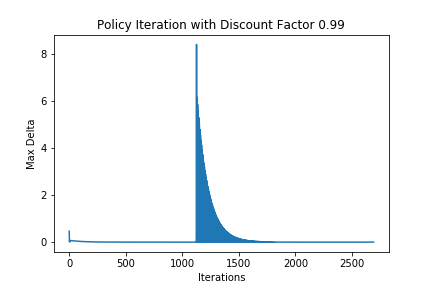
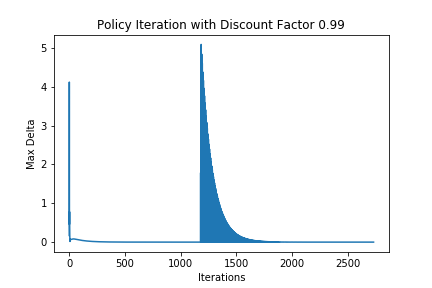
fixed policy_evaluation, graph bug with policy_iteration still

diff --git a/Python Files/policy_iteration.py b/Python Files/policy_iteration.py
@@ -1,50 +1,76 @@
 # adapt the value_iteration.py code to be policy_iteration
 
 # policy iteration
+from Gridworld import Gridworld
+from policy_evaluation import policy_evaluation
+import numpy as np
 
+# display output
+from random import uniform
+import time
+from IPython.display import display, clear_output
+
+actions = [[-1, 0], [0, 1], [1, 0], [0, -1]] #up, right, down, left = (clockwise from up) 
+action_count = len(actions) # total number of actions
+gridSize = 5 # create a square grid of gridSize by gridSize
+state_count = gridSize*gridSize # total number of states
+
+# iterations = 0
+theta = 0.000001
+discount_factor = 0.99
+delta_list = []
+
+# initialize a policy: create an array of dimension (number of states by number of actions)
+# for equal probability amongst all actions, divide everything by the number of actions
+policy = np.ones([state_count, action_count]) / action_count
+
+# policy at state 0 = [0, 0]
+# returns a probability for each action given state
+policy[0]
+
+# create a grid object
+grid = Gridworld(5)
+
+def calculate_action_value(state, value):
+    A = np.zeros(action_count)
+    
+    # perform 4 actions per state and add the rewards (value)
+    for action_number, action in enumerate(actions):
+            
+        # get next position and reward
+        new_position = grid.p_transition(state, action)
+        reward = grid.reward(state, action)
+        
+        # get next position and reward
+        new_position = grid.p_transition(state, action)
+        reward = grid.reward(state, action)
+
+        # calculate value of action: transition_prob*[r + gamma * value(s')]
+        A[action_number] += grid.transition_prob*(reward+(discount_factor*value[new_position[0], new_position[1]]))
+    
+    return A
+
+final_max_iter = 0
+
+# POLICY ITERATION #####################################3
 while True:
     
     # POLICY EVALUATION ####################################
         # iterate through all 25 states. At each state, iterate through all 4 actions
         # to calculate the value of each action.
         # Replace the value map with the calculated value.
-    while True:
-        delta = 0
-        iterations+=1
-        valueMap_copy = np.copy(grid.valueMap)
 
-        # start with the first state in the state list
-        for state_number, state in enumerate(grid.states):
-            value = 0
+    # run policy evaluation
+    final_value_map, max_iter, delta, policy = policy_evaluation(grid.valueMap, grid.states, discount_factor, theta, grid.reward, 
+                                                                    grid.p_transition, grid.transition_prob, policy)
 
-            # perform 4 actions per state and add the rewards (value)
-            for action_number, action in enumerate(actions):
+    # for plotting purpose
+    print("iter: ", max_iter)
+    final_max_iter += max_iter
+    print("sum iter: ", final_max_iter)
+    print(len(delta))
+    delta_list.extend(delta)
 
-                # get next position and reward
-                new_position = grid.p_transition(state, action)
-                reward = grid.reward(state, action)
-
-                # calculate value: policy*transition_prob*[r + gamma * value(s')]
-                value += policy[state_number][action_number]*grid.transition_prob*(reward+(discount_factor*grid.valueMap[new_position[0], new_position[1]]))          
-
-            # replace the value in valueMap with the value
-            valueMap_copy[state[0], state[1]] = value
-
-            # calculate delta
-            delta = max(delta, np.abs(value - grid.valueMap[state[0], state[1]]))       
-            clear_output(wait=True)
-            display('delta: ' + str(delta) + ' iterations: ' + str(iterations))
-
-            # save data for plot
-            delta_list.append(delta)
-
-        # overwrite the original value map (update valuemap after one complete iteration of every state)
-        grid.valueMap = valueMap_copy
-
-        # stop when change in value function falls below a given threshold
-        if delta < theta:
-            break
-    
     # POLICY IMPROVEMENT #######################################
         # iterate through every state and choose the best action with the current policy
         # calculate the action values of every state
@@ -62,7 +88,7 @@ while True:
 
         # calculate the action values for each state using the current value function
         # eg. action_values = [#, #, #, #] = a value for each of the 4 actions
-        action_values = calculate_action_value(state, grid.valueMap)
+        action_values = calculate_action_value(state, final_value_map)
 
         # using the calculated action values, find the best action
         best_action = np.argmax(action_values)
@@ -81,3 +107,51 @@ while True:
     if policy_stable:
         break
 
+print("Iterations: ")
+print(final_max_iter)
+
+# PRINT POLICY TABLE ################################################################################
+# import pandas library
+import pandas as pd
+# define column and index
+columns=range(grid.size)
+index = range(grid.size)
+# define dataframe to represent policy table
+policy_table = pd.DataFrame(index = index, columns=columns)
+
+# iterate through policy to make a table that represents action number
+# as action name (eg. left, right, up, down)
+for state in range(len(policy)):
+    for action in range(policy.shape[1]):
+        if policy[state][action] == 1:
+
+            # calculate the row and column coordinate of the current state number
+            row = int(state/grid.size)
+            column = round((state/grid.size - int(state/grid.size))*grid.size)
+
+            # get action name
+            if action == 0:
+                action_name = 'up'
+            elif action == 1:
+                action_name = 'right'
+            elif action == 2:
+                action_name = 'down'
+            else:
+                action_name = 'left'
+            
+            # assign action name
+            policy_table.loc[row][column] = action_name
+
+print("Policy Table: ")
+print(policy_table)
+
+import matplotlib.pyplot as plt
+# get every 25th value
+delta_list_ = delta_list[0::state_count]
+# plot iteration vs delta
+plt.plot(range(final_max_iter), delta_list_)
+plt.title('Policy Iteration with Discount Factor ' + str(discount_factor))
+plt.xlabel('Iterations')
+plt.ylabel('Max Delta')
+plt.savefig('graphs/Policy-'+str(discount_factor)+'.png')
+plt.show()

diff --git a/Python Files/policy_evaluation.py b/Python Files/policy_evaluation.py
@@ -1,5 +1,4 @@
 # Find the value function of policy
-
 from Gridworld import Gridworld
 import numpy as np
 
@@ -13,21 +12,9 @@ action_count = len(actions) # total number of actions
 gridSize = 5 # create a square grid of gridSize by gridSize
 state_count = gridSize*gridSize # total number of states
 
-iterations = 0
-theta = 0.000001
-delta_list = []
-
-# initialize a policy: create an array of dimension (number of states by number of actions)
-# for equal probability amongst all actions, divide everything by the number of actions
-policy = np.ones([state_count, action_count]) / action_count
-
-# policy at state 0 = [0, 0]
-# returns a probability for each action given state
-policy[0]
-
-
-def policy_evaluation(value_map, states, discount_factor):
-    global iterations
+def policy_evaluation(value_map, states, discount_factor, theta, reward, transition, trans_prob, policy):
+    iterations = 0
+    delta_list = []
     while True:
         delta = 0
         iterations+=1
@@ -41,19 +28,19 @@ def policy_evaluation(value_map, states, discount_factor):
             for action_number, action in enumerate(actions):
 
                 # get next position and reward
-                new_position = grid.p_transition(state, action)
-                reward = grid.reward(state, action)
+                new_position = transition(state, action)
+                rewards = reward(state, action)
 
                 # calculate value: policy*transition_prob*[r + gamma * value(s')]
-                value += policy[state_number][action_number]*grid.transition_prob*(reward+(discount_factor*value_map[new_position[0], new_position[1]]))          
+                value += policy[state_number][action_number]*trans_prob*(rewards+(discount_factor*value_map[new_position[0], new_position[1]]))          
 
             # replace the value in valueMap with the value
             valueMap_copy[state[0], state[1]] = value
 
             # calculate delta
             delta = max(delta, np.abs(value - value_map[state[0], state[1]]))       
-            clear_output(wait=True)
-            display('delta: ' + str(delta) + ' iterations: ' + str(iterations))
+            # clear_output(wait=True)
+            # display('delta: ' + str(delta) + ' iterations: ' + str(iterations))
 
             # save data for plot
             delta_list.append(delta)
@@ -65,15 +52,46 @@ def policy_evaluation(value_map, states, discount_factor):
         if delta < theta:
             break
     
-    return value_map
+    return value_map, iterations, delta_list, policy
 
-# create a grid object
-grid = Gridworld(5)
+def main():
 
-# run policy evaluation
-final_value_map = policy_evaluation(grid.valueMap, grid.states, 0.99)
+    # define variables
+    theta = 0.000001
+    discount_factor = 0.99
 
-# print the final value function
-print("Value Function: ")
-np.set_printoptions(precision=4)
-print(final_value_map)
+    # create a grid object
+    grid = Gridworld(5)
+
+    # initialize a policy: create an array of dimension (number of states by number of actions)
+    # for equal probability amongst all actions, divide everything by the number of actions
+    policy = np.ones([state_count, action_count]) / action_count
+
+    # run policy evaluation
+    final_value_map, max_iter, delta, policy = policy_evaluation(grid.valueMap, grid.states, discount_factor, theta, grid.reward, 
+                                                                    grid.p_transition, grid.transition_prob, policy)
+
+    # print the final value function
+    print("Total Iterations: ")
+    print(max_iter)
+    print("Value Function: ")
+    np.set_printoptions(precision=4)
+    print(final_value_map)
+    # print("Delta: ")
+    # print(delta)
+
+    # print delta vs iterations
+    import matplotlib.pyplot as plt
+    # get every 25th value
+    delta_list = delta[0::state_count]
+    # plot iteration vs delta
+    plt.plot(range(max_iter), delta_list)
+    plt.title('Policy Iteration with Discount Factor ' + str(discount_factor))
+    plt.xlabel('Iterations')
+    plt.ylabel('Max Delta')
+    plt.savefig('graphs/Policy-'+str(discount_factor)+'.png')
+    plt.show()
+
+if __name__ == "__main__":
+    main()
+
